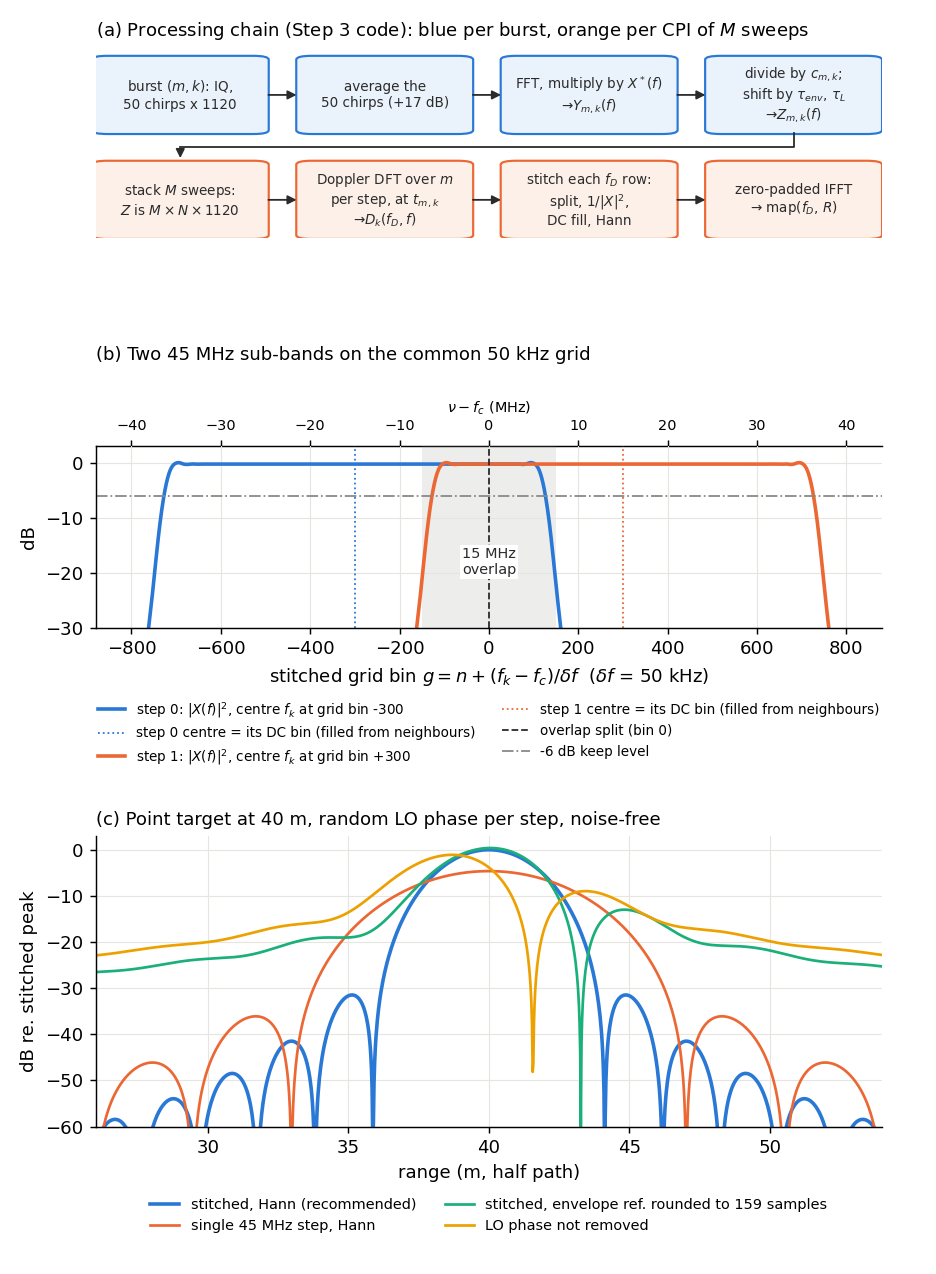
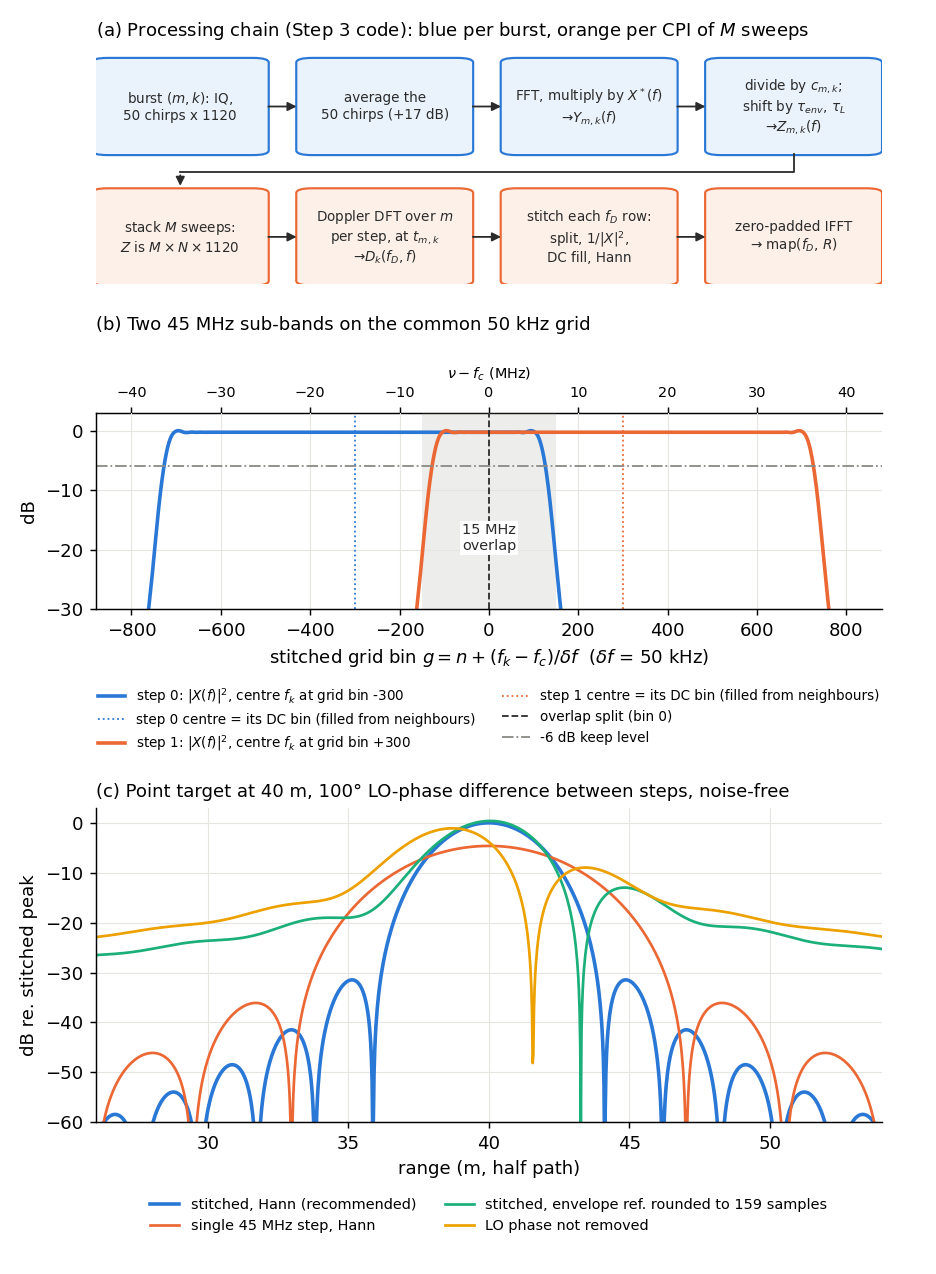
Researcher: b210-13 -- fix second cold-read findings in delay-Doppler method doc
Directive: b210-13
Tracker: no tracker

Claude-Session: https://claude.ai/code/session_012SGcFeRLywrBLC2k5btXwv

diff --git a/docs/figures/delay_doppler_figures.py b/docs/figures/delay_doppler_figures.py
@@ -70,7 +70,7 @@ def normalize(ys, ys_leak, tau_env, tau_l=TAU_L):
     """Per-step LO-phase removal: divide by the leakage peak value, align envelopes, apply tau_L.
 
     c_k is read from the leakage component only, so the plotted profiles show the target lobe
-    without the leakage lobe at 0 m (in real data c_k is the full profile at the leakage peak).
+    without the 0.3 m leakage lobe (not plotted) (in real data c_k is the full profile at the leakage peak).
     """
     out = []
     for k, (y, yl) in enumerate(zip(ys, ys_leak)):
@@ -267,7 +267,7 @@ def fig_stitch(rng):
     w, psl, *_ = metrics(r_rect, p_rect, r0)
     print(f"stitched, rectangular | {w:.2f} | {psl:.1f}")
 
-    fig, (ax0, ax1, ax2) = plt.subplots(3, 1, figsize=(7.2, 9.8), gridspec_kw={"height_ratios": [1.05, 1, 1.6]})
+    fig, (ax0, ax1, ax2) = plt.subplots(3, 1, figsize=(7.2, 9.8), gridspec_kw={"height_ratios": [0.85, 1, 1.6]})
     draw_chain(ax0)
     ax0.set_title("(a) Processing chain (Step 3 code): blue per burst, orange per CPI of $M$ sweeps", fontsize=10, loc="left")
     x2 = np.abs(X) ** 2
@@ -290,7 +290,7 @@ def fig_stitch(rng):
     top = ax1.secondary_xaxis("top", functions=(lambda g: g * DELTA_F / 1e6, lambda mhz: mhz * 1e6 / DELTA_F))
     top.set_xlabel(r"$\nu - f_c$ (MHz)", fontsize=8)
     top.tick_params(labelsize=8)
-    ax1.set_title("(b) Two 45 MHz sub-bands on the common 50 kHz grid", fontsize=10, loc="left", pad=22)
+    ax1.set_title("(b) Two 45 MHz sub-bands on the common 50 kHz grid", fontsize=10, loc="left", pad=20)
     ax1.legend(fontsize=7.5, frameon=False, loc="upper center", bbox_to_anchor=(0.5, -0.33), ncol=2)
     show = ["stitched, Hann (recommended)", "single 45 MHz step, Hann", "stitched, envelope ref. rounded to 159 samples", "LO phase not removed"]
     for i, name in enumerate(show):
@@ -300,12 +300,14 @@ def fig_stitch(rng):
     ax2.set_ylim(-60, 3)
     ax2.set_xlabel("range (m, half path)")
     ax2.set_ylabel("dB re. stitched peak")
-    ax2.set_title(f"(c) Point target at {r0:.0f} m, random LO phase per step, noise-free", fontsize=10, loc="left")
+    ax2.set_title(f"(c) Point target at {r0:.0f} m, 100° LO-phase difference between steps, noise-free", fontsize=10, loc="left")
     ax2.legend(fontsize=8, frameon=False, loc="upper center", bbox_to_anchor=(0.5, -0.2), ncol=2)
     for ax in (ax1, ax2):
         ax.grid(color="#e6e5e0", lw=0.6)
         ax.spines[["top", "right"]].set_visible(False)
-    fig.tight_layout()
+    fig.tight_layout(h_pad=0.3)
+    pos = ax0.get_position()                      # tight_layout leaves a blank band under the chain: stretch (a) into it
+    ax0.set_position([pos.x0, pos.y0 - 0.055, pos.width, pos.height + 0.055])
     check_layout(fig, "fig_stitch")
     fig.savefig(OUT / "fig_stitch.png", dpi=130)
 

diff --git a/docs/delay_doppler.md b/docs/delay_doppler.md
@@ -4,23 +4,23 @@ Method for `b210_sar.processing.delay_doppler` (directive b210-13, Step 1), revi
 match the Step 3 code (`processing/{pulse,calibration,delay_doppler}.py`, `sim.py`).
 Parameters come from `configs/default.yaml`, `capture/src/*.cpp` and the RX-only run
 `run_20261106_155516_rx` (1959 bursts, default config). Simulated numbers and figures come from
-`docs/figures/delay_doppler_figures.py`, a noise-free numpy model.
+`docs/figures/delay_doppler_figures.py`, a noise-free numpy model. Implementation details are left to those modules.
 
 ## 1. Parameters (verified)
 
 | Quantity | Value | Source |
 |---|---|---|
-| $N$ steps, spacing $\Delta f$, chirp band $B$ | 2, 30 MHz, 45 MHz; step centres $f_k$ = 2426.75, 2456.75 MHz; band centre $f_c$ = 2441.75 MHz | config, bursts.csv |
+| $N$ steps, step spacing $\Delta f$ (capital), chirp band $B$ | 2, 30 MHz, 45 MHz; step centres $f_k$ = 2426.75, 2456.75 MHz; band centre $f_c$ = 2441.75 MHz | config, bursts.csv |
 | $f_s$, $T_c$, $N_c$ | 56 MS/s, 20 µs, 1120 samples; up-chirp $-B/2\to+B/2$, 5 % taper | `chirp.cpp` |
-| Burst | 50 chirps (56000 samples); TX sends 51 and starts one chirp early | `make_tx_burst` |
-| $T_{step}$ / sweep $T_s$ | 15.32 / **30.64 ms** mean (σ 0.34, max 32.82 ms); budget 18.2 / 36.40 ms | bursts.csv, `run_log.txt` |
+| Burst | 50 chirps (56000 samples); TX sends 51 and starts one chirp early, so the RX window sees a periodic signal (§2) | `make_tx_burst` |
+| $T_{step}$ / sweep $T_s$ (mean $\bar T_s$) | 15.32 / **30.64 ms** mean (σ 0.34, max 32.82 ms); budget 18.2 / 36.40 ms | bursts.csv, `run_log.txt` |
 | $\lambda$; baseband latency $\tau_{sys}$ | 12.28 cm; ≈ 159 samples (2.84 µs), the leakage peak on the cabled bench | config, `design_notes.md` |
 
 ## 2. Signal model
 
-Burst $(m,k)$ is sweep $m$, step $k$, starting at USRP time $t_{m,k}$. Its 50 chirps are averaged
-(17 dB gain), transformed on $f=n\,\delta f$ ($n=-560\dots559$, $\delta f=f_s/N_c$ = 50 kHz) and
-multiplied by $X^*(f)$, where $X(f)$ is the DFT of the transmitted replica (`chirp_replica.cf32`,
+Burst $(m,k)$ is sweep $m$ (of $M$ per CPI, the coherent processing interval), step $k$, starting at USRP time $t_{m,k}$. Its 50 chirps are averaged
+(17 dB gain), transformed on the bin grid $f=n\,\delta f$ ($n=-560\dots559$; $\delta f=f_s/N_c$ = 50 kHz, not the 30 MHz step
+spacing $\Delta f$) and multiplied by $X^*(f)$ (matched filter), where $X(f)$ is the DFT of the transmitted replica (`chirp_replica.cf32`,
 `chirp.generate_chirp`):
 
 $$Y_{m,k}(f) = |X(f)|^2\, e^{j\phi_{m,k}}\, e^{-j2\pi f\tau_{sys}} \sum_i a_i\, e^{-j2\pi \nu\,\tau_i(t_{m,k})},\qquad \nu=f_k+f .$$
@@ -30,53 +30,55 @@ $$Y_{m,k}(f) = |X(f)|^2\, e^{j\phi_{m,k}}\, e^{-j2\pi f\tau_{sys}} \sum_i a_i\, 
   frequency of bin $n$.
 - The leakage is the path with $a_L$, $\tau_L$ = antenna separation / $c$: 1–10 ns (0.06–0.56
   samples) for 0.3–3 m. Its peak sits at $\tau_{env}=\tau_{sys}+\tau_L$, so $\tau_{env}\approx\tau_{sys}$.
-- $\tau_{sys}$ shifts the envelope only. $\phi_{m,k}$ is the TX-RX synthesizer phase, random
+- $\tau_{sys}$ shifts the envelope only; it is not fitted separately but absorbed into $\tau_{env}$ (§3). $\phi_{m,k}$ is the TX-RX synthesizer phase, random
   after every retune (consecutive bursts spread by about 100°).
 - $y_{m,k}(\tau)=\frac1{N_c}\sum_{f\ne0}Y_{m,k}(f)\,e^{+j2\pi f\tau}$ is the compressed pulse at any,
   also fractional, delay $\tau$.
 
-Matched filtering runs at full rate, not by dechirp, so there is no residual video phase. LFM
-range-Doppler coupling (7 ps) and Doppler within a dwell (< 0.01 dB) are negligible. Circular
+LFM range-Doppler coupling (7 ps) and Doppler within a dwell (< 0.01 dB) are negligible. Circular
 compression is exact for $\tau+\tau_{sys}\le T_c$, because the TX lead keeps the RX window in
-steady state.
+steady state. Order of operations throughout: average → matched filter → LO/delay correction (§3) →
+Doppler per step (§6) → stitch per Doppler row (§4) → window → IFFT.
 
 ## 3. Removing the per-step LO phase
 
 $\phi_{m,k}$ changes on every retune, so no stored calibration predicts it; every burst is
-referenced to its own leakage (or, later, the outline's cabled reference on channel B):
+referenced to its own leakage (a later hardware option: a cabled TX reference on RX channel B):
 
 $$Z_{m,k}(f) = \frac{Y_{m,k}(f)}{c_{m,k}}\, e^{+j2\pi f\tau_{env}}\, e^{-j2\pi(f_k-f_c+f)\tau_L},
 \qquad c_{m,k}=\frac{y_{m,k}(\tau_{env})}{E_X},\ \ E_X=\tfrac1{N_c}\textstyle\sum_{f\ne0}|X|^2 .$$
 
-$c_{m,k}$ is $y$ evaluated at the fractional $\tau_{env}$ by the direct sum above (exact
-band-limited interpolation, no upsampling). It equals $a_Le^{j\phi_{m,k}}e^{-j2\pi f_k\tau_L}$
-(plus other returns' sidelobes at $\tau_{env}$), so $Z\propto(a_i/a_L)|X|^2e^{-j2\pi\nu\tau_i}$ up to one constant: consistent across steps.
+$E_X$ normalises $c$ to the matched-filter gain of a unit path; the $f=0$ bin is left out of both sums because it holds a
+DC offset, not target signal (§4).
 
-- **$\tau_{env}$ is fitted once per run** (`fit_leakage_cal`) on static bursts: maximise
+$c_{m,k}$ is $y$ evaluated at the fractional $\tau_{env}$ by the direct sum above (exact
+interpolation). It equals $a_Le^{j\phi_{m,k}}e^{-j2\pi f_k\tau_L}$, so $Z\propto(a_i/a_L)|X|^2e^{-j2\pi\nu\tau_i}$ up to one constant: consistent across steps.
+
+- **$\tau_{env}$ is fitted once per run** (`fit_leakage_cal`) on bursts of a static scene: maximise
   $\sum_m|y_m(\tau)|^2$, on an 8× zero-padded grid, then golden-section to $10^{-6}$ sample. Only
   magnitudes enter, so $\phi$ needs no prior removal; the leakage must be the strongest return in
   the search window.
 - **It must be fractional.** An error $\delta$ puts a phase jump $2\pi\Delta f\delta$ at the
-  junction; rounding to 160 samples raises PSL by 12.6 dB (Appendix A.1, test B6).
+  junction; rounding to 160 samples raises the peak sidelobe level (PSL, highest sidelobe relative to the mainlobe) by 12.6 dB (Appendix A.1, test B6).
 - **Sign of the $\tau_L$ term (resolved in Step 3).** Dividing by $c$ leaves
   $e^{-j2\pi\nu(\tau_i-\tau_L)}$, range measured from the leakage; $e^{-j2\pi(f_k-f_c+f)\tau_L}$
-  restores $\tau_i$. The outline (p. 6) writes $e^{+j2\pi f_k\tau_{leak}}$, which is wrong under this
-  model. Test B4 (3 m leakage, target at 37.3 m): this sign gives 37.300 m, the outline's 34.300 m,
+  restores $\tau_i$. The earlier plan's $e^{+j2\pi f_k\tau_{leak}}$ is wrong under this
+  model. Test B4 (3 m leakage, target at 37.3 m): this sign gives 37.300 m, the earlier plan's 34.300 m,
   no term 35.801 m. Sim and code share the model; a corner reflector at a surveyed range confirms it
   on hardware (b210-17).
 
-`calibration.LeakageCal` holds only static terms: $\tau_{env}$; $\tau_L$, from the antenna
-separation or fitted on a corner reflector (`estimate_tau_leak`); and `phase_only`, which divides by
-$c/|c|$, removing $\phi$ but keeping amplitudes in counts instead of $a_i/a_L$. RX-only runs (TX
-off) have no leakage and so no reference: `cal=None` skips this section ($Z=Y$), the steps do not
-add coherently, and such runs serve only for noise floor and timing.
+The stored calibration holds only static terms: $\tau_{env}$ and $\tau_L$ (from the antenna separation, or
+fitted on a corner reflector). A phase-only option divides by $c/|c|$ instead, removing $\phi$ but
+keeping amplitudes in counts rather than $a_i/a_L$. RX-only runs (TX off) have no leakage and so no
+reference: the correction is skipped ($Z=Y$), the steps do not add coherently, and such runs serve only for
+noise floor and timing.
 
 ## 4. Stitching
 
 ![Fig. 1](figures/fig_stitch.png)
 
-*Fig. 1. (a) The implemented chain. (b) Each step's $|X|^2$ on the stitched grid (top axis: RF
-offset). (c) Point target at 40 m, 100° LO-phase difference between the steps, 0.3 m leakage.*
+*Fig. 1. (a) The implemented chain. (b) Each step's $|X|^2$ on the stitched grid (top: RF offset). (c) Point target at 40 m, 100° LO-phase difference between the steps; the 0.3 m leakage
+serves as the reference and is not plotted.*
 
 Use **frequency-domain concatenation** [`wilkinson1998`; `lord1997`; `nel2002`]. Time-domain
 synthesis reconstructs the same band but must upsample and frequency-shift every pulse, which Lord
@@ -90,10 +92,8 @@ $\Delta f/\delta f$ is an integer (here 600). Per step:
 3. Equalize by $1/|X|^2$.
 4. **DC bin** (step centre): its own value is never used, since a DC offset with random phase per
    burst would smear across Doppler. By default (`dc="interpolate"`) it is replaced by the mean of
-   its two equalized neighbours, whose phases differ by $2\pi\delta f\tau$ (0.08 rad at 37 m).
-   Zeroing it (the original plan, still `dc="zero"`) is a missing spectral line: a −54.6 dB floor (Hann) under
-   the leakage, which held a target 20 dB below the leakage to PSL −29.1 dB. Interpolating gives
-   −75.7 dB and −31.5 dB.
+   its two equalized neighbours.
+   Zeroing it (the original plan, `dc="zero"`) leaves a missing spectral line (Appendix A.3).
 
 Then one window (Hann default; Hamming or rect) spans the whole stitched support, the lowest to the
 highest kept $g$ (≈ 75 MHz), and the IFFT is zero-padded ≥ 4×.
@@ -105,13 +105,13 @@ highest kept $g$ (≈ 75 MHz), and the IFFT is zero-padded ≥ 4×.
 | Band; nominal resolution | $B_{tot}=(N-1)\Delta f+B$; $\Delta R=c/(2B_{tot})$; one step $c/(2B)$ | 75 MHz; 2.00 m; 3.33 m |
 | Measured −3 dB width / PSL (figure script; Fig. 1c) | stitched: Hann 3.00 m / −31.5 dB, rect 1.85 m / −13.3 dB; one step, Hann 5.08 m | [`harris1978`] |
 | Range ambiguity | $c/(2\delta f)=cT_c/2$; steady state $R<c(T_c-\tau_{sys})/2$ | 2998 m; ≈ 2.57 km |
-| Doppler axis, resolution | $f_D=j/(M\bar T_s)$, $j=-M/2\dots M/2-1$; $1/(M\bar T_s)$ | 0.51 Hz at $M$=64 |
+| Doppler axis, resolution | $f_D=j/(M\bar T_s)$, $j=-M/2\dots M/2-1$ ($M$ sweeps per CPI, $\bar T_s$ mean sweep period); $1/(M\bar T_s)$ | 0.51 Hz at $M$=64 |
 | Velocity span, resolution | $v_{amb}=\pm\lambda/(4\bar T_s)$; $\lambda/(2M\bar T_s)$ | ±1.00 m/s; 3.1 cm/s |
 
 $\Delta R$ is the window-free figure; the Hann mainlobe is 1.5× wider. A target at closing speed
-$v$ lands in Doppler bin $j=\mathrm{round}(2vM\bar T_s/\lambda)$, wrapped into $-M/2\dots M/2-1$
+$v$ ($v>0$ closing, giving positive $f_D$, as implemented) lands in Doppler bin $j=\mathrm{round}(2vM\bar T_s/\lambda)$, wrapped into $-M/2\dots M/2-1$
 when $|v|>v_{amb}$. There are no grating lobes at $c/(2\Delta f)$ = 5 m, because the sub-bands are
-contiguous. $\bar T_s$ is the CPI's mean sweep period from the timestamps. **For b210-11:**
+contiguous. **For b210-11:**
 `compute_budget` uses `retune_s` = 9.2 ms and reports 36.40 ms (±0.84 m/s, 2.6 cm/s).
 
 ## 6. Target motion
@@ -123,16 +123,16 @@ phase. M = 64, Hann in range and Doppler.*
 
 Stitching each sweep first and transforming over sweeps at the sweep time leaves step $k$, recorded
 $kT_{step}$ later, with an extra $2\pi f_DkT_{step}$. The loss is about $\cos(\pi f_DT_{step})$:
-−0.7 dB at 0.5 m/s, −3.3 dB at 1 m/s. **The code transforms Doppler first** (Fig. 1a): $Z$ is
+−0.7 dB at 0.5 m/s, −3.3 dB at 1 m/s. **The code transforms Doppler first** (Fig. 1a): after averaging, matched filtering and the §3 correction, $Z$ is
 stacked as $M$ sweeps × $N$ steps × $N_c$ bins and each step is transformed at its own burst times,
 
 $$D_k(f_D,f)=\frac{\sum_m w_m\,Z_{m,k}(f)\,e^{-j2\pi f_D (t_{m,k}-\bar t)}}{\sum_m w_m},$$
 
 with $w_m$ the slow-time window (Hann default, 0 for a missing burst) and $\bar t$ the mean time of
 the CPI's valid bursts. Since $Z_{m,k}\propto e^{-j2\pi\nu\tau_i(\bar t)}e^{+j2\pi\nu(2v/c)(t_{m,k}-\bar t)}$,
-the matching $f_D$ cancels the second factor in every step, up to the $\nu/f_c$ scaling (±1.5 %).
+the matching $f_D$ cancels the second factor in every step.
 Each $D_k$ then carries the phase of a static target at $\tau_i(\bar t)$, and each $f_D$ row is
-stitched as in §4 with no further correction. The per-burst $t_{m,k}$ is the step compensation: it
+stitched as in §4 (then windowed and inverse-transformed) with no further correction. The per-burst $t_{m,k}$ is the step compensation: it
 removes $2\pi f_DkT_{step}$ exactly. Loss stays under 0.2 dB up to $v_{amb}$.
 
 What is ignored:
@@ -140,8 +140,7 @@ What is ignored:
 - **Aliasing.** When $|v|>v_{amb}$ the target appears at $f_D-p/\bar T_s$, and the step
   compensation is off by $2\pi p\,kT_{step}/\bar T_s$ (π for $N=2$, $p=1$), which splits the lobe.
 - **Range walk over the CPI** [`perry1999`], and the $\nu/f_c$ Doppler scaling. Both are
-  negligible while $M\le\Delta R/(2|v|\bar T_s)$: 32 at 1 m/s, 65 at 0.5 m/s. See
-  [`wehner1995`, ch. 5] for stepped-frequency velocity effects.
+  negligible while $M\le\Delta R/(2|v|\bar T_s)$: 32 at 1 m/s, 65 at 0.5 m/s.
 - **Zero Doppler.** Leakage and static clutter sit at $f_D=0$. `remove_static=True`
   (`remove_static_clutter`) subtracts each step's mean $Z$ over the CPI before the Doppler DFT; off by default.
 
@@ -152,7 +151,7 @@ Other configurations ($N\neq2$): Appendix A.2. Tests: Appendix B.
 Derivation and formulas, checked by the model: **high**. Not yet tested on hardware:
 
 - whether the antenna leakage is stable enough to serve as $c_{m,k}$;
-- whether $\tau_{env}$ can be fit to 1 ns;
+- whether $\tau_{env}$ can be fit to ~1 ns on real data (shown in simulation only, test 3; hardware pending b210-17);
 - antenna phase-centre drift with frequency.
 
 The literature supports the method choices only: **medium-high**. Lord and Yuan are cited from
@@ -175,6 +174,11 @@ adjacent step centres.
   [`levanon2004`; `wehner1995`].
 - $\bar T_s\approx NT_{step}$, so $v_{amb}\propto1/N$.
 - The envelope tolerance is $\delta\lesssim10°/(360°\,\Delta f)$.
+
+### A.3 DC bin
+
+With Hann, zeroing the DC bin gives a −54.6 dB floor under the leakage and holds a target 20 dB below the
+leakage to PSL −29.1 dB; interpolating gives −75.7 dB and −31.5 dB.
 
 ## Appendix B: test list (Step 3, `tests/test_delay_doppler.py`)
 
